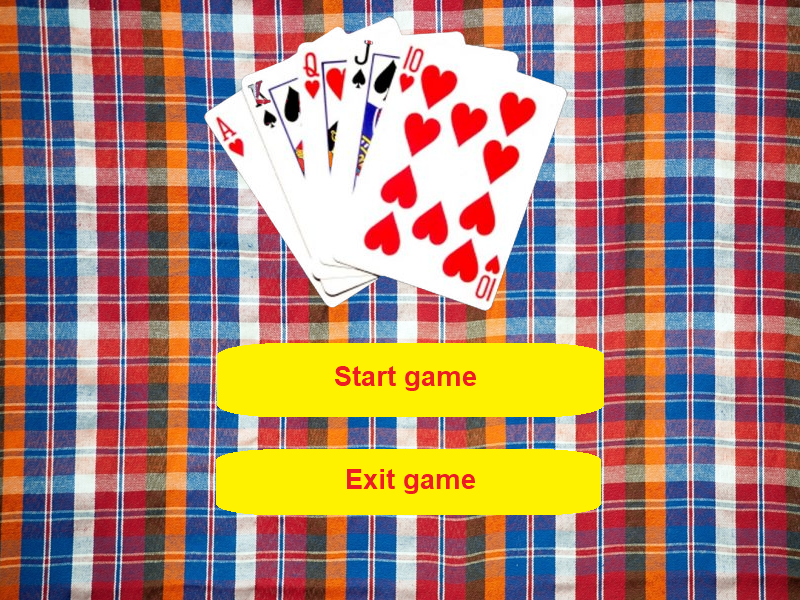
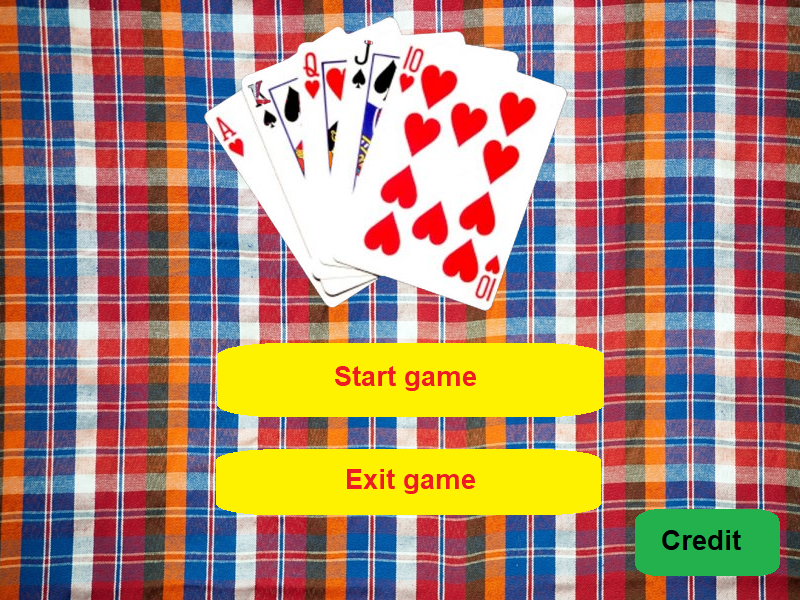
add credit_menu class

Changed region(s): [[0.7812, 0.84, 1.0, 0.96]]

diff --git a/code/Card_Game.py b/code/Card_Game.py
@@ -6,7 +6,8 @@ from os.path import join
 # 0 = main menu
 # 1 = game selection
 # 2 = pok game
-#
+# 32 = credit
+
 # Loader ======================= Loader ======================= Loader
 class Sound_Loader():
     def __init__(self):
@@ -39,7 +40,7 @@ class Menu_Controller():
         self.main_menu = Main_Menu()
         self.game_selection_menu = Game_Selection_Menu()
         self.pok_game_menu = Pok_Game_Menu()
-    
+        self.credit_menu = Credit_Menu()
 
     def main(self):
         return self.main_menu.run()
@@ -49,6 +50,9 @@ class Menu_Controller():
     
     def pok(self):
         return self.pok_game_menu.run()
+    
+    def credit(self):
+        return self.credit_menu.run()
 
 class Menu():   
     def __init__(self):
@@ -82,6 +86,7 @@ class Main_Menu(Menu):
         self.theme_song = None
         self.start_button = (215,345),(600,420)
         self.exit_button = (215,450),(600,515)
+        self.credit_button = (635,510),(780,577)
 
     
     def run(self):
@@ -117,21 +122,34 @@ class Main_Menu(Menu):
 
                 # start Button (to game selection)
                 if is_hit_box(mouse_pos,self.start_button[0], self.start_button[1]):
-                    print ("start")
+                    #print ("start")
                     if clickdown:
                         return 1
                 
                 # exit Button (exit game)
                 if is_hit_box(mouse_pos,self.exit_button[0], self.exit_button[1]):
-                    print ("exit")
+                    #print ("exit game")
                     if clickdown:
                         return -1
+                
+                # exit Button (exit game)
+                if is_hit_box(mouse_pos,self.exit_button[0], self.exit_button[1]):
+                    #print ("exit game")
+                    if clickdown:
+                        return 9
 
 
+class Credit_Menu(Menu):
+    def __init__(self):
+        self.name = "Credit"
+        self.background = loaded_image.bg
+        self.theme_song = None
 
+        self.next_button = (0,0),(0,0)
+        self.back_button = (0,0),(0,0)
 
-        
-
+    def draw_page1(self):
+        return None
 
 class Game_Selection_Menu(Menu):
     def __init__(self):        
@@ -159,7 +177,7 @@ class Game_Selection_Menu(Menu):
 
                 # pointer
                 mouse_pos = pygame.mouse.get_pos()
-                print (mouse_pos)
+                #print (mouse_pos)
 
                 if event.type == pygame.MOUSEBUTTONDOWN:
                     clickdown = True
@@ -177,25 +195,25 @@ class Game_Selection_Menu(Menu):
 
                 # Pok deng Button (to game selection)
                 if is_hit_box(mouse_pos,self.pok_button[0], self.pok_button[1]):
-                    print ("pok")
+                    #print ("pok")
                     if clickdown:
                         return 2
                 
                 # x Button
                 if is_hit_box(mouse_pos,self.x_button[0], self.x_button[1]):
-                    print ("x")
+                    #print ("x")
                     if clickdown:
                         print ("comming soon...")
 
                 # x Button
                 if is_hit_box(mouse_pos,self.y_button[0], self.y_button[1]):
-                    print ("y")
+                    #print ("y")
                     if clickdown:
                         print ("comming soon...")
 
                 # back Button (main menu)
                 if is_hit_box(mouse_pos,self.back_button[0], self.back_button[1]):
-                    print ("back")
+                    #print ("back")
                     if clickdown:
                         return 0
 
@@ -226,21 +244,22 @@ def main():
     go = 0
     while go != -1:
         if go == 0:
-
             # open main music theme (ต้อง load ใหม่ เพื่อเปิดเสียงแยกจาก effect)
             pygame.mixer.music.load(join('resource','main_theme.wav'))
             pygame.mixer.music.set_volume(0.25)
             pygame.mixer.music.play(loops=-1)
-            
 
             go = menu.main()
+
         elif go == 1:
             go = menu.selection()
         elif go == 2:
-
             # stop main music theme
-            pygame.mixer.music.stop
+            pygame.mixer.music.stop()
+
             go = menu.pok()
+        elif go == 32:
+            go = menu.credit()
 
 
 
